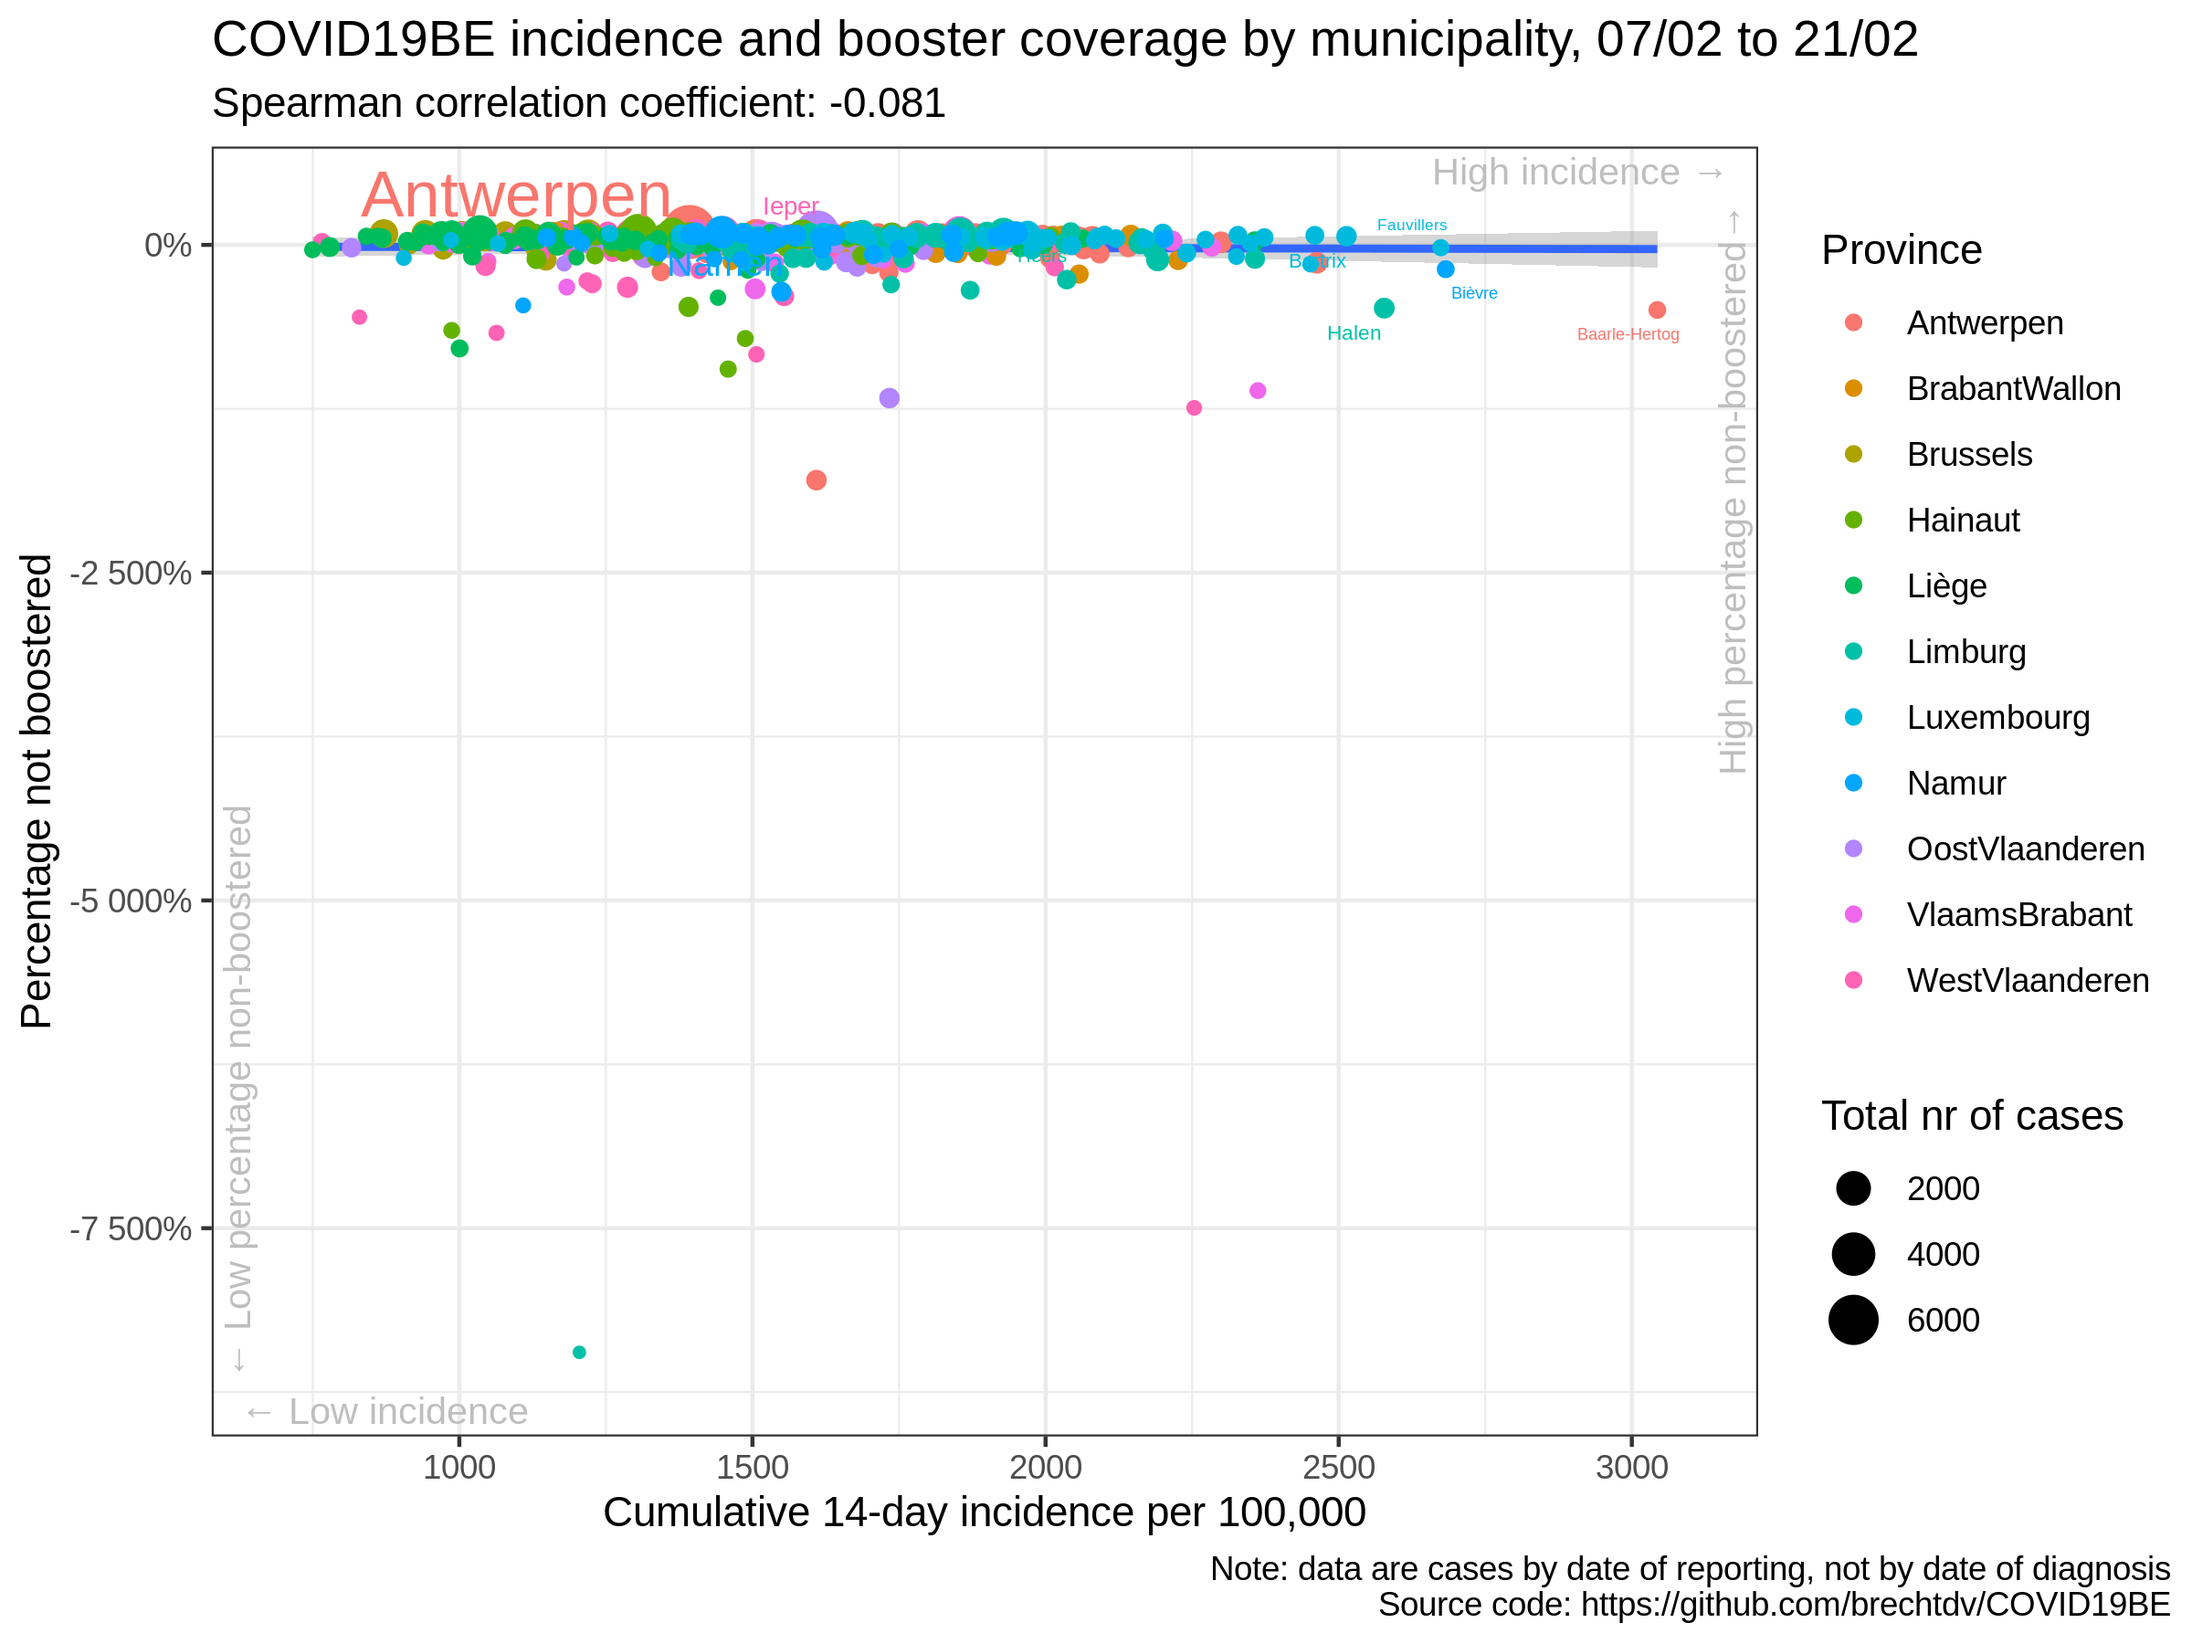
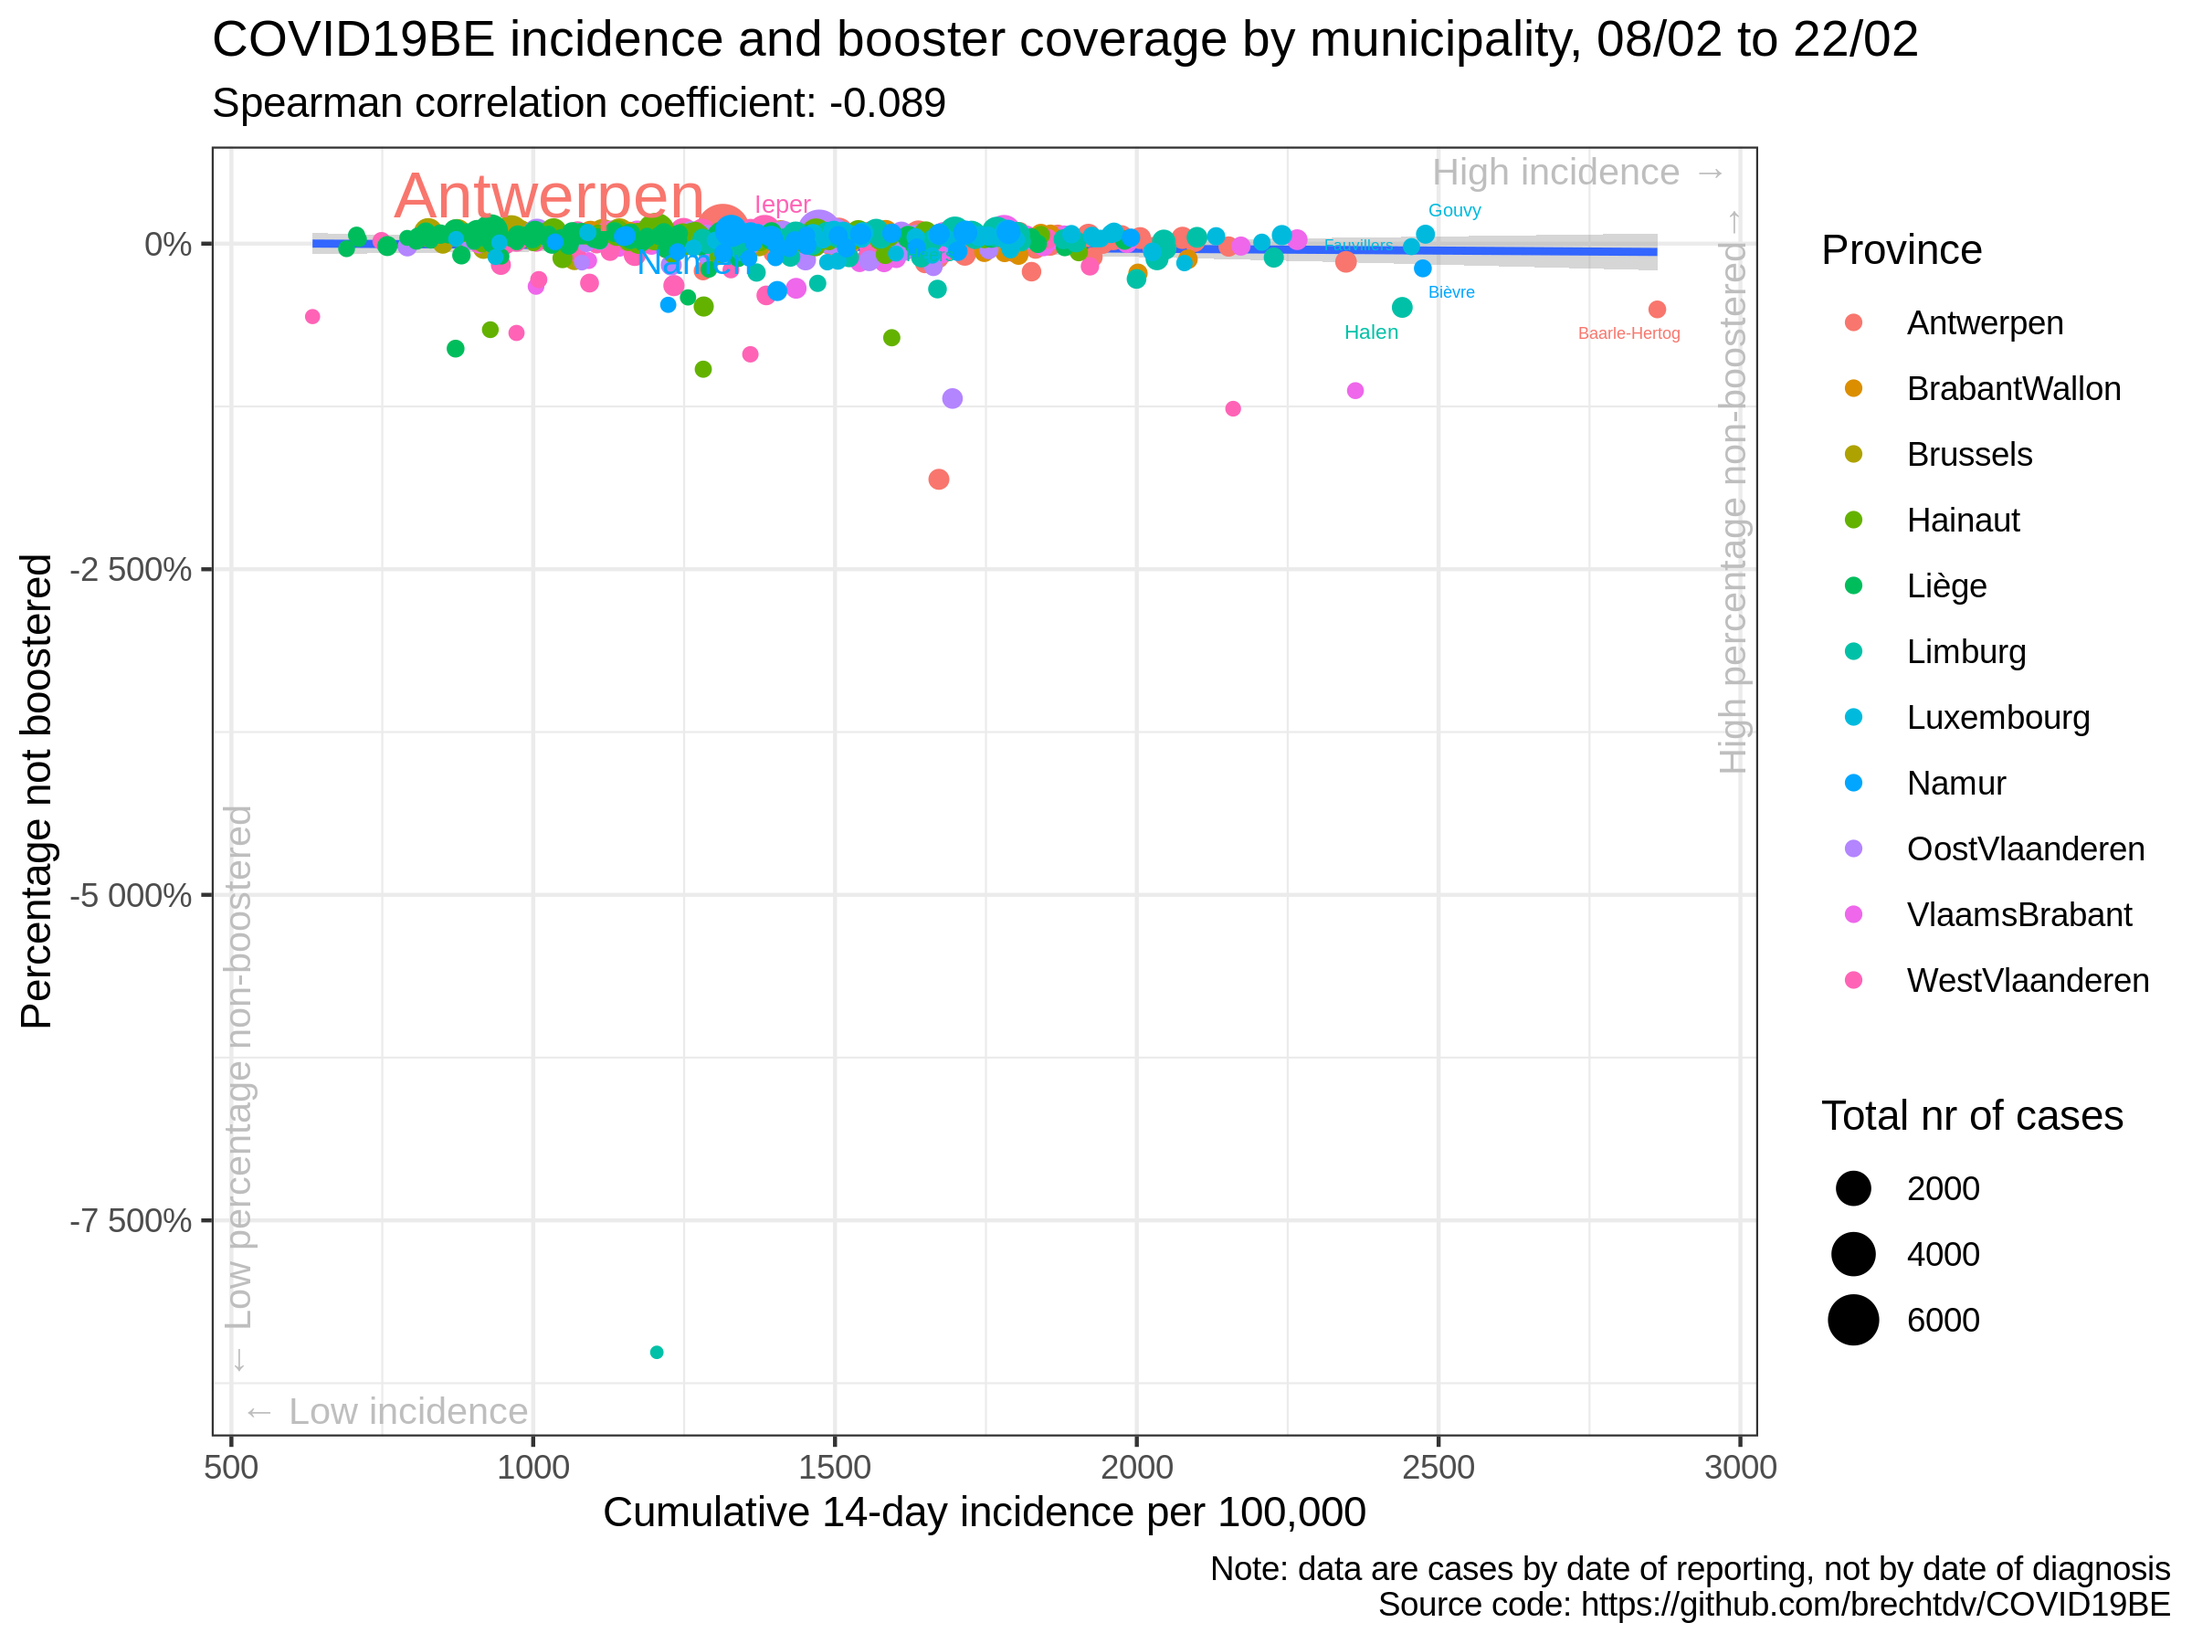
update situation

diff --git a/vaccination/README.md b/vaccination/README.md
@@ -17,35 +17,35 @@
 
 |                | estimate.rho | p.value |
 | :------------- | -----------: | ------: |
-| Antwerpen      |      \-0.089 |   0.467 |
-| BrabantWallon  |      \-0.389 |   0.046 |
-| Brussels       |      \-0.223 |   0.358 |
-| Hainaut        |        0.022 |   0.858 |
-| Liège          |      \-0.080 |   0.470 |
-| Limburg        |        0.003 |   0.984 |
-| Luxembourg     |      \-0.026 |   0.864 |
-| Namur          |      \-0.006 |   0.973 |
-| OostVlaanderen |      \-0.040 |   0.760 |
-| VlaamsBrabant  |      \-0.121 |   0.336 |
-| WestVlaanderen |        0.145 |   0.253 |
-| Belgium        |      \-0.063 |   0.131 |
+| Antwerpen      |      \-0.112 |   0.357 |
+| BrabantWallon  |      \-0.372 |   0.057 |
+| Brussels       |      \-0.233 |   0.335 |
+| Hainaut        |      \-0.018 |   0.884 |
+| Liège          |      \-0.073 |   0.511 |
+| Limburg        |        0.051 |   0.746 |
+| Luxembourg     |      \-0.004 |   0.979 |
+| Namur          |        0.026 |   0.879 |
+| OostVlaanderen |      \-0.065 |   0.622 |
+| VlaamsBrabant  |      \-0.134 |   0.288 |
+| WestVlaanderen |        0.158 |   0.211 |
+| Belgium        |      \-0.069 |   0.099 |
 
 ### Correlation cumulative incidence vs booster rate
 
 |                | estimate.rho | p.value |
 | :------------- | -----------: | ------: |
-| Antwerpen      |      \-0.093 |   0.446 |
-| BrabantWallon  |      \-0.400 |   0.040 |
-| Brussels       |      \-0.281 |   0.243 |
-| Hainaut        |        0.020 |   0.867 |
-| Liège          |      \-0.080 |   0.469 |
-| Limburg        |      \-0.002 |   0.991 |
-| Luxembourg     |      \-0.018 |   0.908 |
-| Namur          |        0.005 |   0.977 |
-| OostVlaanderen |      \-0.040 |   0.758 |
-| VlaamsBrabant  |      \-0.152 |   0.225 |
-| WestVlaanderen |        0.141 |   0.265 |
-| Belgium        |      \-0.081 |   0.052 |
+| Antwerpen      |      \-0.117 |   0.338 |
+| BrabantWallon  |      \-0.374 |   0.055 |
+| Brussels       |      \-0.270 |   0.262 |
+| Hainaut        |      \-0.016 |   0.897 |
+| Liège          |      \-0.073 |   0.510 |
+| Limburg        |        0.047 |   0.769 |
+| Luxembourg     |        0.012 |   0.939 |
+| Namur          |        0.043 |   0.799 |
+| OostVlaanderen |      \-0.064 |   0.627 |
+| VlaamsBrabant  |      \-0.162 |   0.197 |
+| WestVlaanderen |        0.155 |   0.221 |
+| Belgium        |      \-0.089 |   0.033 |
 
 ### Data source
 
